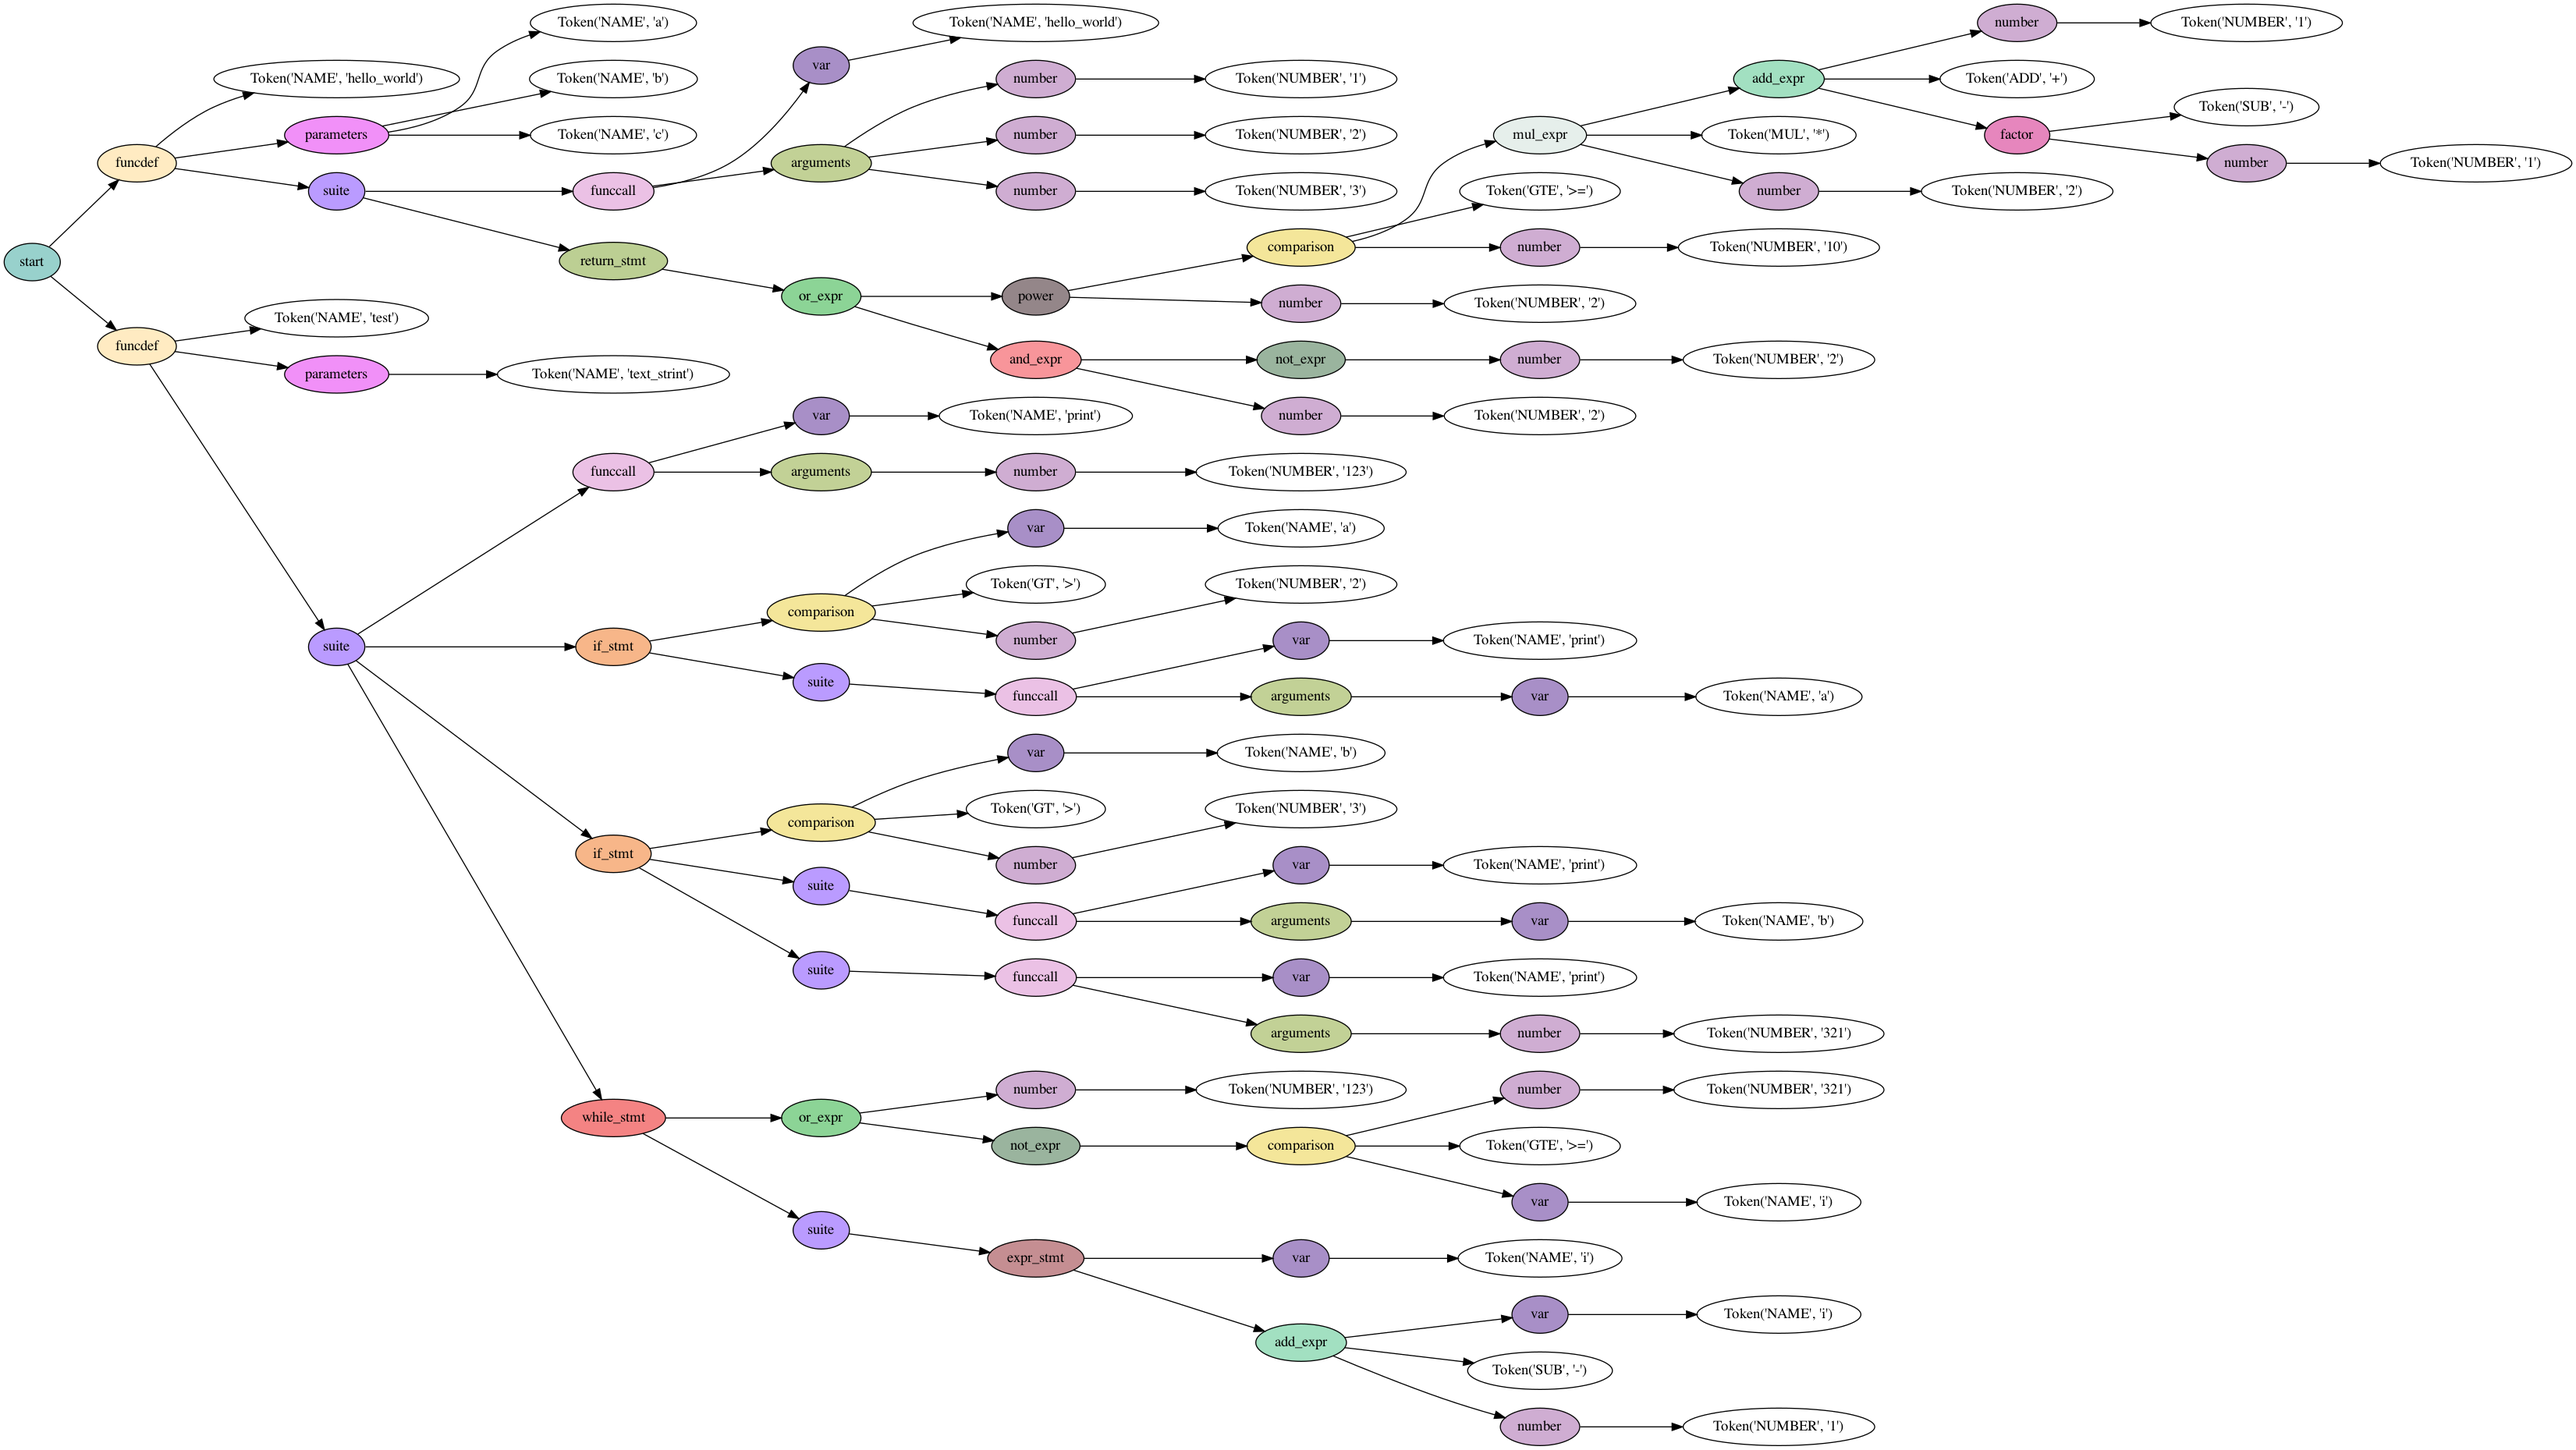
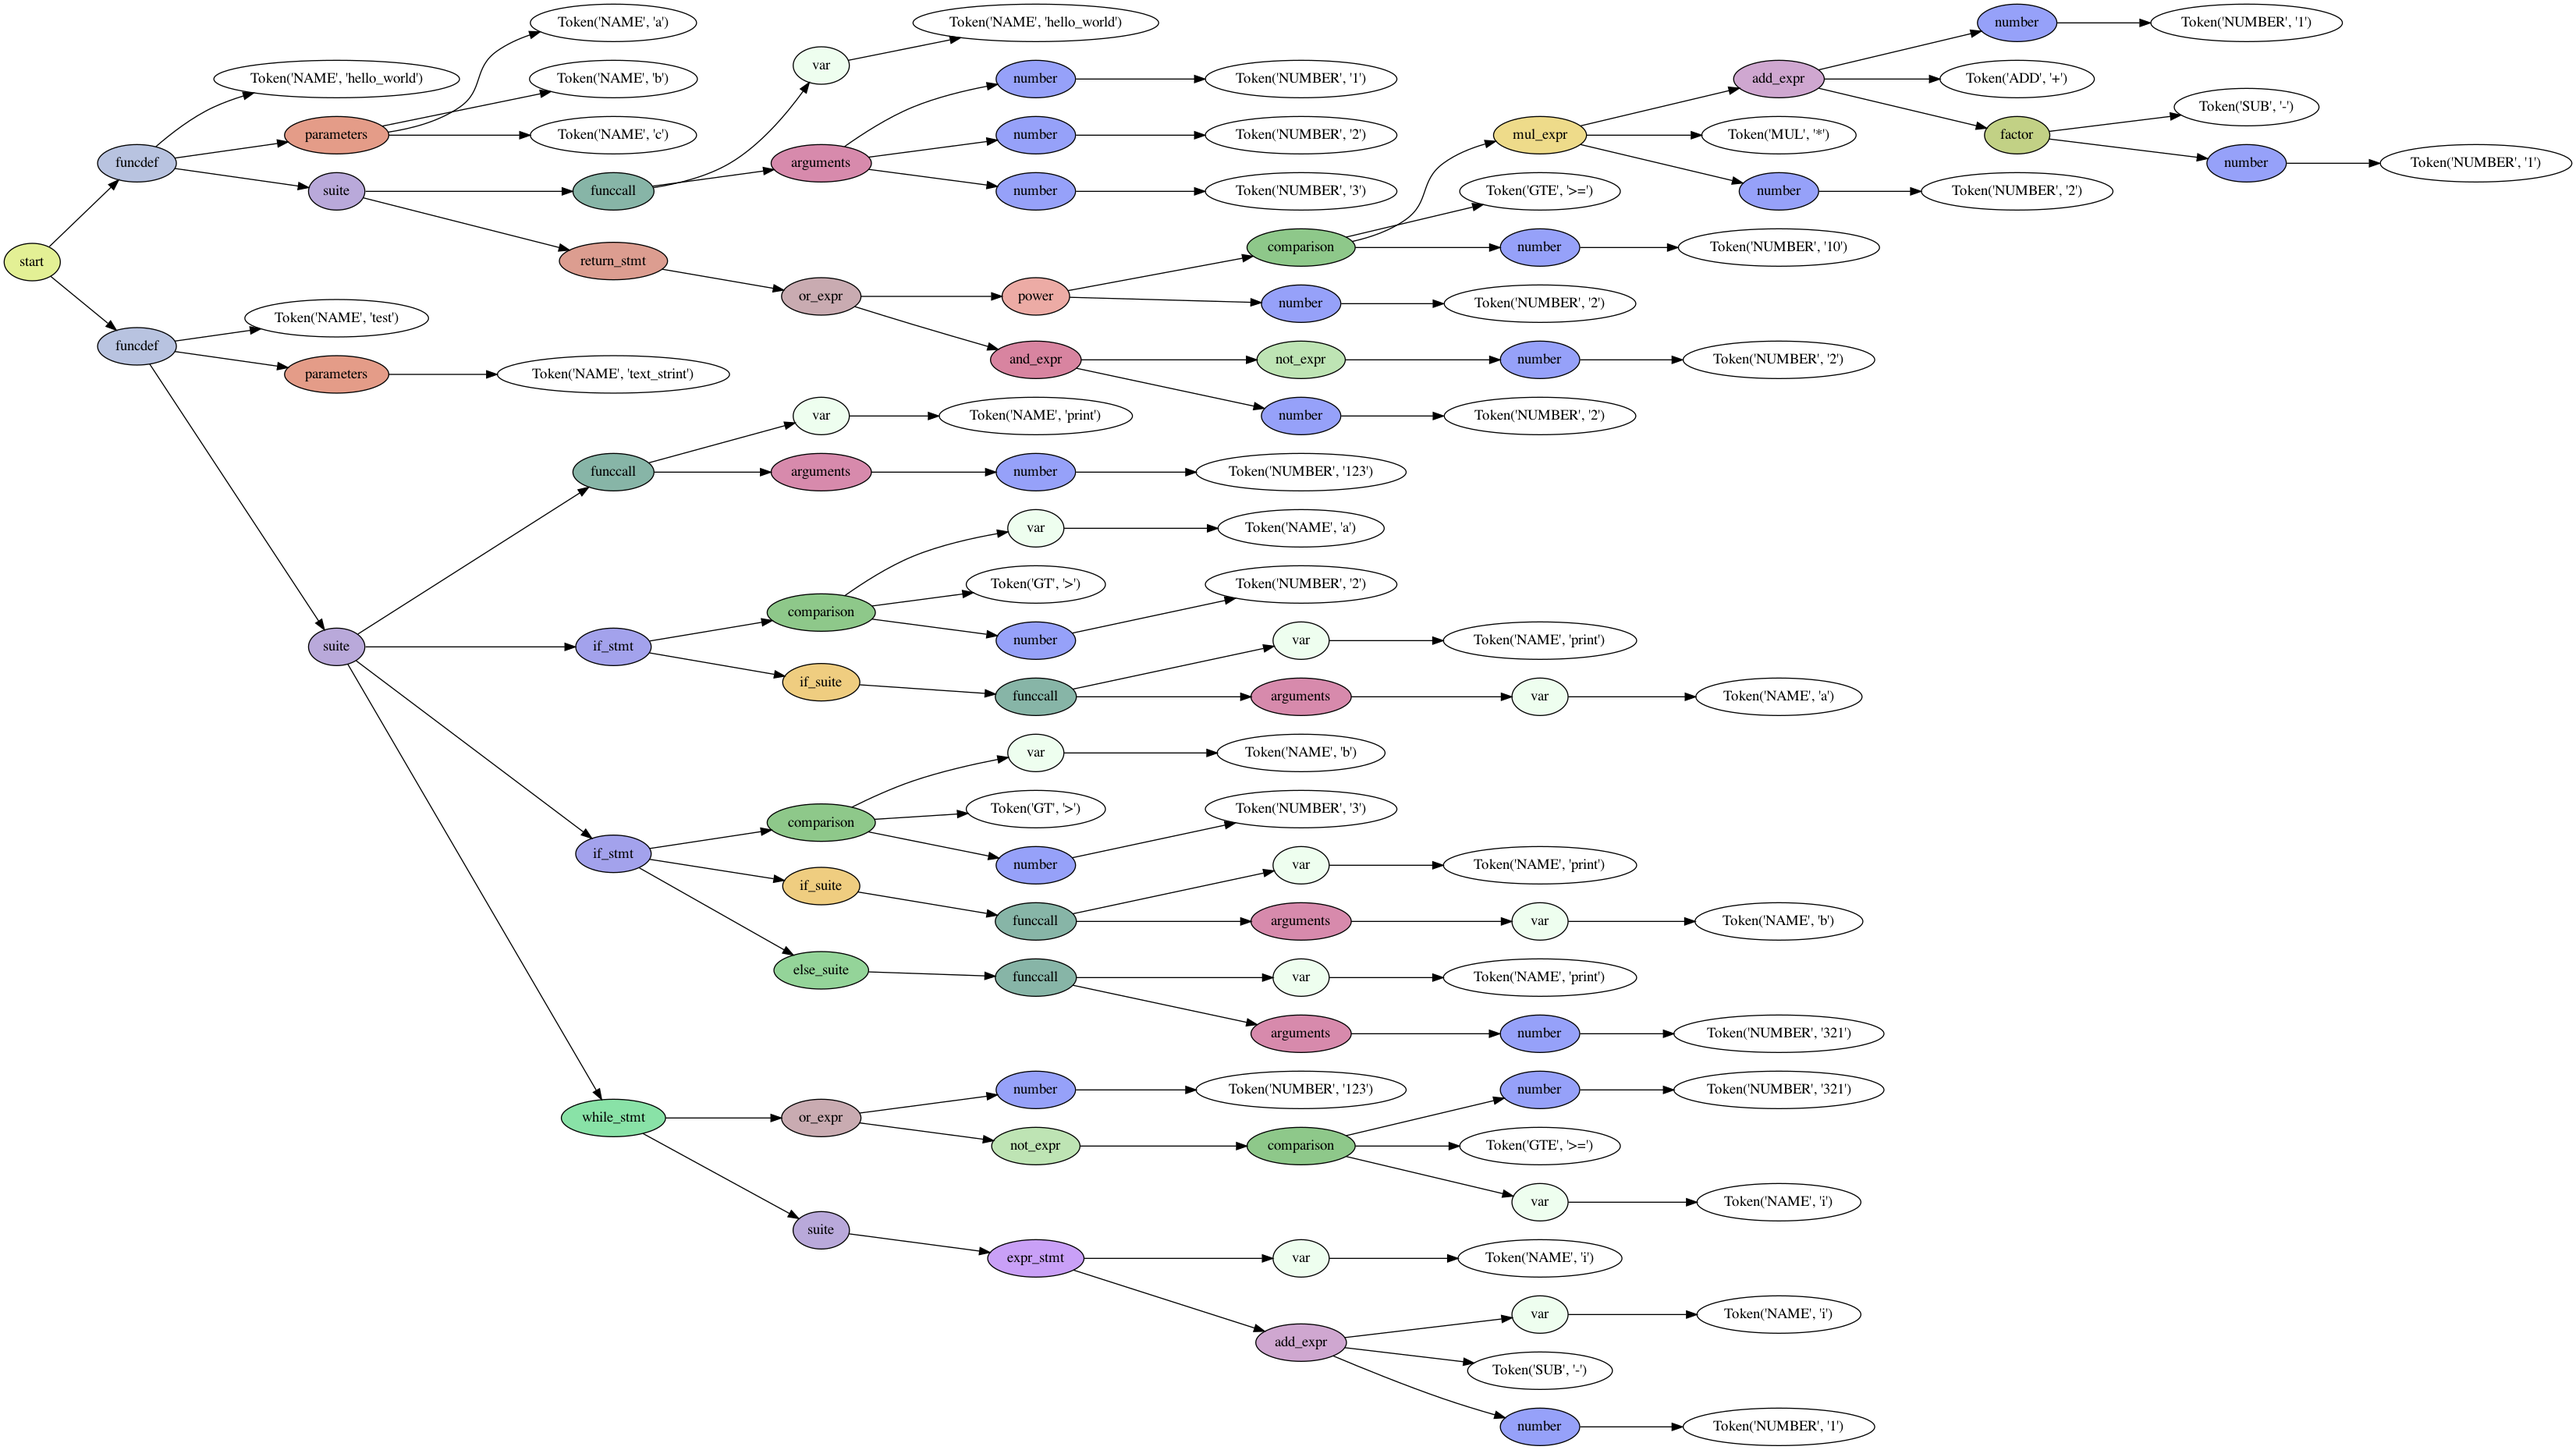
Fix

diff --git a/parser.py b/parser.py
@@ -24,9 +24,11 @@ grammar = r"""
     return_stmt: "return" test
     
     ?compound_stmt: if_stmt | while_stmt | funcdef
-    if_stmt: "if" test ":" suite ("elif" test ":" suite)* ["else" ":" suite]
+    if_stmt: "if" test ":" if_suite ["else" ":" else_suite]
     while_stmt: "while" test ":" suite ["else" ":" suite]
     suite: simple_stmt | _NEWLINE _INDENT stmt+ _DEDENT
+    if_suite: simple_stmt | _NEWLINE _INDENT stmt+ _DEDENT
+    else_suite: simple_stmt | _NEWLINE _INDENT stmt+ _DEDENT
     
     ?test: expr
     ?expr: or_expr
